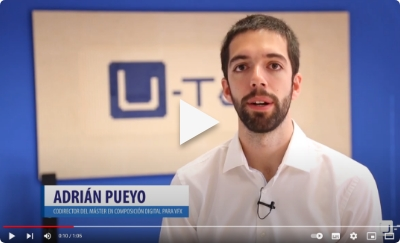
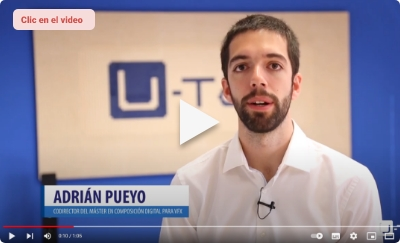
Ajustes tema uno

Changed region(s): [[0.03, 0.0288, 0.24, 0.144]]

diff --git a/src/views/Tema1.vue b/src/views/Tema1.vue
@@ -18,15 +18,13 @@
     p.mb-5 Algunas generalidades importantes para tener en cuenta, sobre la composición digital, son:
     SlyderB.mb-5(:datos="datosSlyder")
     .contenedor_amarillo.bg--4-claro.p-5.mb-5
-      .row.justify-content-center
+      .row.justify-content-center.align-items-center
         .col-lg-6.mb-3
           .titulo-segundo.color-primario
             h3 ¿Qué es la Composición Digital para VFX? 
           p.mb-3 Amplíe el concepto y utilidad de la composición digital, visualizando el vídeo que aquí se propone. Tome nota de los aspectos más relevantes.
-          .bg--1-claro.display-block.rounded-2.p-2.c--1.d-flex.w-25
-            p.mb-0.fw-bold.d-flex.align-items-center.justify-content-center Clic en el video
         .col-lg-4
-          a(href="https://www.youtube.com/watch?v=QQ8_7_X_QXQ" target="_blank")
+          a(href="https://www.youtube.com/watch?v=o-Xjedov3y8&ab_channel=U-tad" target="_blank")
             img(src="@/assets/curso/7.jpg")
     #t_1_1.titulo-segundo.color-secundario
       h2 1.1 Tipos de composición 
@@ -79,7 +77,7 @@
       | Otros elementos que determinan el diseño final y que tienen relación con la colocación de la cámara son:
     .row.mb-5.justify-content-center
       .col-lg-9
-        LineaTiempoD.color-secundario
+        LineaTiempoD.color-primario
           div.row(numero="1" titulo="Distancia focal").p-4.align-items-center
             .col-lg-8
               p La distancia focal, según el objetivo y el encuadre elegido, ayuda a identificar profundidad de campo a través del gran angular y facilita la incorporación de muchos elementos. 
@@ -117,32 +115,35 @@
     p.mb-5 De muchas de estas reglas se nutre la composición para las imágenes en movimiento, como las que se generan a través de la animación digital que, aunque incluyen una perspectiva técnica, pretenden ayudar a construir el mensaje a través de la creación de la narrativa visual del producto.
       br
       br
-      |Aunque existen decenas de reglas, algunas de las más usadas son las siguientes: 
-    figure.mb-5
-      .video
-        iframe(width="560" height="315" src="https://www.youtube.com/embed/2L91WMqw96A" title="YouTube video player" frameborder="0" allow="accelerometer; autoplay; clipboard-write; encrypted-media; gyroscope; picture-in-picture" allowfullscreen)
+      |Aunque existen decenas de reglas, algunas de las más usadas son las siguientes:
+    .bg-video.p-4.mb-5
+      .row.justify-content-center.align-items-center
+        .col-lg-10
+          figure
+            .video
+              iframe(width="560" height="315" src="https://www.youtube.com/embed/2L91WMqw96A" title="YouTube video player" frameborder="0" allow="accelerometer; autoplay; clipboard-write; encrypted-media; gyroscope; picture-in-picture" allowfullscreen)
     .contenedor_amarillo.bg--4-claro.p-5.mb-5
       .row.justify-content-center.align-items-center
         .col-lg-6.mb-3
           .titulo-segundo.color-primario
             h3 Conozca más sobre la aplicación de estas reglase en cine y video y estudie algunos ejemplos, visualizando los vídeos que aquí se proponen. Explore cada uno de ellos y procure llevar registro, en su libreta personal de apuntes, de los aspectos más relevantes que encuentre:
-          a(href="https://www.youtube.com/watch?v=QQ8_7_X_QXQ" target="_blank")
+          a(href="https://www.youtube.com/watch?v=t5MPOqnt60U" target="_blank")
             .bg--1-claro.display-block.rounded-2.p-2.c--1.d-flex.w-100.mb-2.hover
               img(src='@/assets/curso/18.svg' style='width: 25px').me-2
               p.mb-0.fw-bold.d-flex.align-items-center.justify-content-center Reglas de Composición Cinematográficas.
-          a(href="https://www.youtube.com/watch?v=QQ8_7_X_QXQ" target="_blank")
+          a(href="https://www.youtube.com/watch?v=I7sS54EIEAg&ab_channel=LucianoAvilasobrecineyseries" target="_blank")
             .bg--1-claro.display-block.rounded-2.p-2.c--1.d-flex.w-100.mb-2.hover
               img(src='@/assets/curso/18.svg' style='width: 25px').me-2
               p.mb-0.fw-bold.d-flex.align-items-center.justify-content-center Técnicas y principios de composición fotográfica en cine y series.
-          a(href="https://www.youtube.com/watch?v=QQ8_7_X_QXQ" target="_blank")
+          a(href="https://www.youtube.com/watch?v=I7sS54EIEAg&ab_channel=LucianoAvilasobrecineyseries" target="_blank")
             .bg--1-claro.display-block.rounded-2.p-2.c--1.d-flex.w-100.mb-2.hover
               img(src='@/assets/curso/18.svg' style='width: 25px').me-2
               p.mb-0.fw-bold.d-flex.align-items-center.justify-content-center MEJORA TUS FOTOS Y VIDEOS con este simple TRUCO (composición).
-          a(href="https://www.youtube.com/watch?v=QQ8_7_X_QXQ" target="_blank")
+          a(href="https://www.youtube.com/watch?v=I7sS54EIEAg&ab_channel=LucianoAvilasobrecineyseries" target="_blank")
             .bg--1-claro.display-block.rounded-2.p-2.c--1.d-flex.w-100.mb-2.hover
               img(src='@/assets/curso/18.svg' style='width: 25px').me-2
               p.mb-0.fw-bold.d-flex.align-items-center.justify-content-center Mr. Robot: Encuadres que rompen las reglas de composición (Análisis).
-          a(href="https://www.youtube.com/watch?v=QQ8_7_X_QXQ" target="_blank")
+          a(href="https://www.youtube.com/watch?v=zkxLh4op_oo&t=255s" target="_blank")
             .bg--1-claro.display-block.rounded-2.p-2.c--1.d-flex.w-100.mb-2.hover
               img(src='@/assets/curso/18.svg' style='width: 25px').me-2
               p.mb-0.fw-bold.d-flex.align-items-center.justify-content-center How To Break The Rules Of Composition.
@@ -298,10 +299,7 @@
                 br
                 br
                 | En el video que se propone explore breves explicaciones, con ejemplos reales, de la manera como se aplican las distintas técnicas en el <i><b>software</b></i> Nuke: 
-
-              //TODO PENDIENTE POR AGREGAR LINK  
-
-              a.anexo.mb-4.mb-lg-0(href="https://en.wikipedia.org/wiki/Main_Page" target="_blank")
+              a.anexo.mb-4.mb-lg-0(href="https://www.youtube.com/watch?v=SxDTwFLq7Fk" target="_blank")
                 .anexo__icono
                   img(src="@/assets/template/icono-link.svg")
                 .anexo__texto
@@ -316,23 +314,16 @@
           )
           .bloque-texto-g__texto.p-4
             p.mb-0 Actualmente, la mayoría de los softwares que se usan en la industria audiovisual combinan, en menor o mayor medida, herramientas de todas las fases de la postproducción. Esto quiere decir que, un software especializado en edición de vídeo como Adobe Premiere, incluye opciones como el chroma o la rotoscopia que, normalmente, están disponibles en la composición digital, pero también movimiento de títulos u otros objetos que pertenecen a la animación.
-    .tarjeta--container.row.mb-5
-      .col-md.tarjeta.color-secundario.p-5
-        .row.justify-content-center.mb-4
-          .col-6
-            figure
-              img(src='@/assets/curso/42.svg', alt='Texto que describa la imagen')
-        .text-system.text-center
-          h2 Sabía que...
-          p Igualmente, existen softwares enfocados en la composición digital como After Effects o Hitfilm Pro, que tienen sus propias herramientas de edición de video.
-      .col-md.tarjeta.color-primario.p-5
-        .row.justify-content-center.mb-4
-          .col-6
-            figure
-              img(src='@/assets/curso/43.svg', alt='Texto que describa la imagen')
-        .text-white.text-center  
-          h2 ¡Importante! 
-          p Esta información es importante en el momento de elegir las herramientas con las que se finalizarán los proyectos en postproducción. Es necesario plantearse qué se va a hacer y qué tipo de editor es el más apropiado.
+    .bg-carrousel.d-flex.justify-content-center.align-items-center.mb-4
+      h2.h1.text-center.text-white Sabías que...
+      .bg-carrousel_content.px-5.py-5.justify-content-center.d-flex.align-items-center
+        .text-center.w-75
+          p.fw-bold.mb-0 Igualmente, existen softwares enfocados en la composición digital como After Effects o Hitfilm Pro, que tienen sus propias herramientas de edición de video.
+    .bg-carrousel2.d-flex.justify-content-center.align-items-center.mb-5
+      h2.h1.text-center.text-white Sabías que...
+      .bg-carrousel2_content.px-5.py-5.justify-content-center.d-flex.align-items-center
+        .text-center.w-75
+          p.fw-bold.mb-0 Esta información es importante en el momento de elegir las herramientas con las que se finalizarán los proyectos en postproducción. Es necesario plantearse qué se va a hacer y qué tipo de editor es el más apropiado.
     p.mb-5 Para las tareas de composición digital existen softwares de composición especializados de dos tipos: software que se basa en la composición multicapa y software que se basa en la composición por nodos. 
       br
       br
@@ -341,7 +332,6 @@
       .col-lg-10
         .tarjeta.tarjeta--gris.p-4
           PasosB.color-primario
-
             .row(titulo="").px-4
               .col-md-5
                 figure
@@ -393,27 +383,6 @@
                 p Conjunto de herramientas CG totalmente interactivo para crear escenarios 3D, desarrollar looks, iluminar, renderizar y componer. Fue diseñado para agilizar el flujo de trabajo de artistas y permitirles trabajar e interactuar constantemente en su imagen final, con efectos completos y en tiempo real. 
     p.mb-5 De igual manera, es importante saber que algunos de los programas más utilizados para las labores de composición digital son:        
     SlyderB.mb-5(:datos="datosSlyder2")
-
-
-
-
-
-
-
-
-
-
-
-
-
-
-
-
-
-
-
-    
-  
 </template>
 
 <script>
@@ -538,9 +507,13 @@ export default {
     i:last-child
       display: block
 .linea-tiempo-d__item--selected .linea-tiempo-d__item__content__title, .linea-tiempo-d__item__content__slot
-  background-color: #fff3cc
+  background-color: #f8e8d5
+
+
 .linea-tiempo-d__item__number.tarjeta.tarjeta--gris
-  background-color: #edc596
+  background-color: $color-primario
+  span
+    color: white
 .pointer
   transition: background-color .3s ease-in-out
   &:hover
@@ -557,4 +530,42 @@ export default {
   outline: 4px white solid
   span
     color: #fff
+.bg-carrousel
+  position: relative
+  background-image: url('../assets/curso/SQ.svg')
+  background-repeat: no-repeat
+  background-size: cover
+  background-position: center
+  width: 100%
+  min-height: 207px
+  overflow: hidden
+  &:hover
+    .bg-carrousel_content
+      left: 0
+  &_content
+    width: 100%
+    background-color: #ffe799
+    transition: left .3s ease-in-out
+    position: absolute
+    height: 100%
+    left: 150%
+.bg-carrousel2
+  position: relative
+  background-image: url('../assets/curso/IM.svg')
+  background-repeat: no-repeat
+  background-size: cover
+  background-position: center
+  width: 100%
+  min-height: 207px
+  overflow: hidden
+  &:hover
+    .bg-carrousel2_content
+      left: 0
+  &_content
+    width: 100%
+    background-color: #ffe799
+    transition: left .3s ease-in-out
+    position: absolute
+    height: 100%
+    left: 150%
 </style>

diff --git a/src/views/Introduccion.vue b/src/views/Introduccion.vue
@@ -9,10 +9,12 @@
           i.fas.fa-info
       h1 Introducción
     p.mb-5 A continuación se presenta el componente formativo <b>“Composición y edición”</b>. Es importante realizar un estudio consciente de cada temática que este ofrece. Para comenzar, se puede explorar el recurso que se muestra a continuación:
-    
-    figure.mb-5
-      .video
-        iframe(width="560" height="315" src="https://www.youtube.com/embed/2L91WMqw96A" title="YouTube video player" frameborder="0" allow="accelerometer; autoplay; clipboard-write; encrypted-media; gyroscope; picture-in-picture" allowfullscreen)
+    .bg-video.p-4
+      .row.justify-content-center.align-items-center
+        .col-lg-10
+          figure
+            .video
+              iframe(width="560" height="315" src="https://www.youtube.com/embed/2L91WMqw96A" title="YouTube video player" frameborder="0" allow="accelerometer; autoplay; clipboard-write; encrypted-media; gyroscope; picture-in-picture" allowfullscreen)
 
 </template>
 

diff --git a/src/styles/_custom.sass b/src/styles/_custom.sass
@@ -24,3 +24,11 @@
     background-position: 0px
   100%
     background-position: 713px
+
+// FONDO PARA VIDEOS -------------------------
+.bg-video
+  background-image: url(../assets/curso/bg-video.svg)
+  background-position: center
+  background-repeat: no-repeat
+  background-size: 100 100
+  width: 100%
